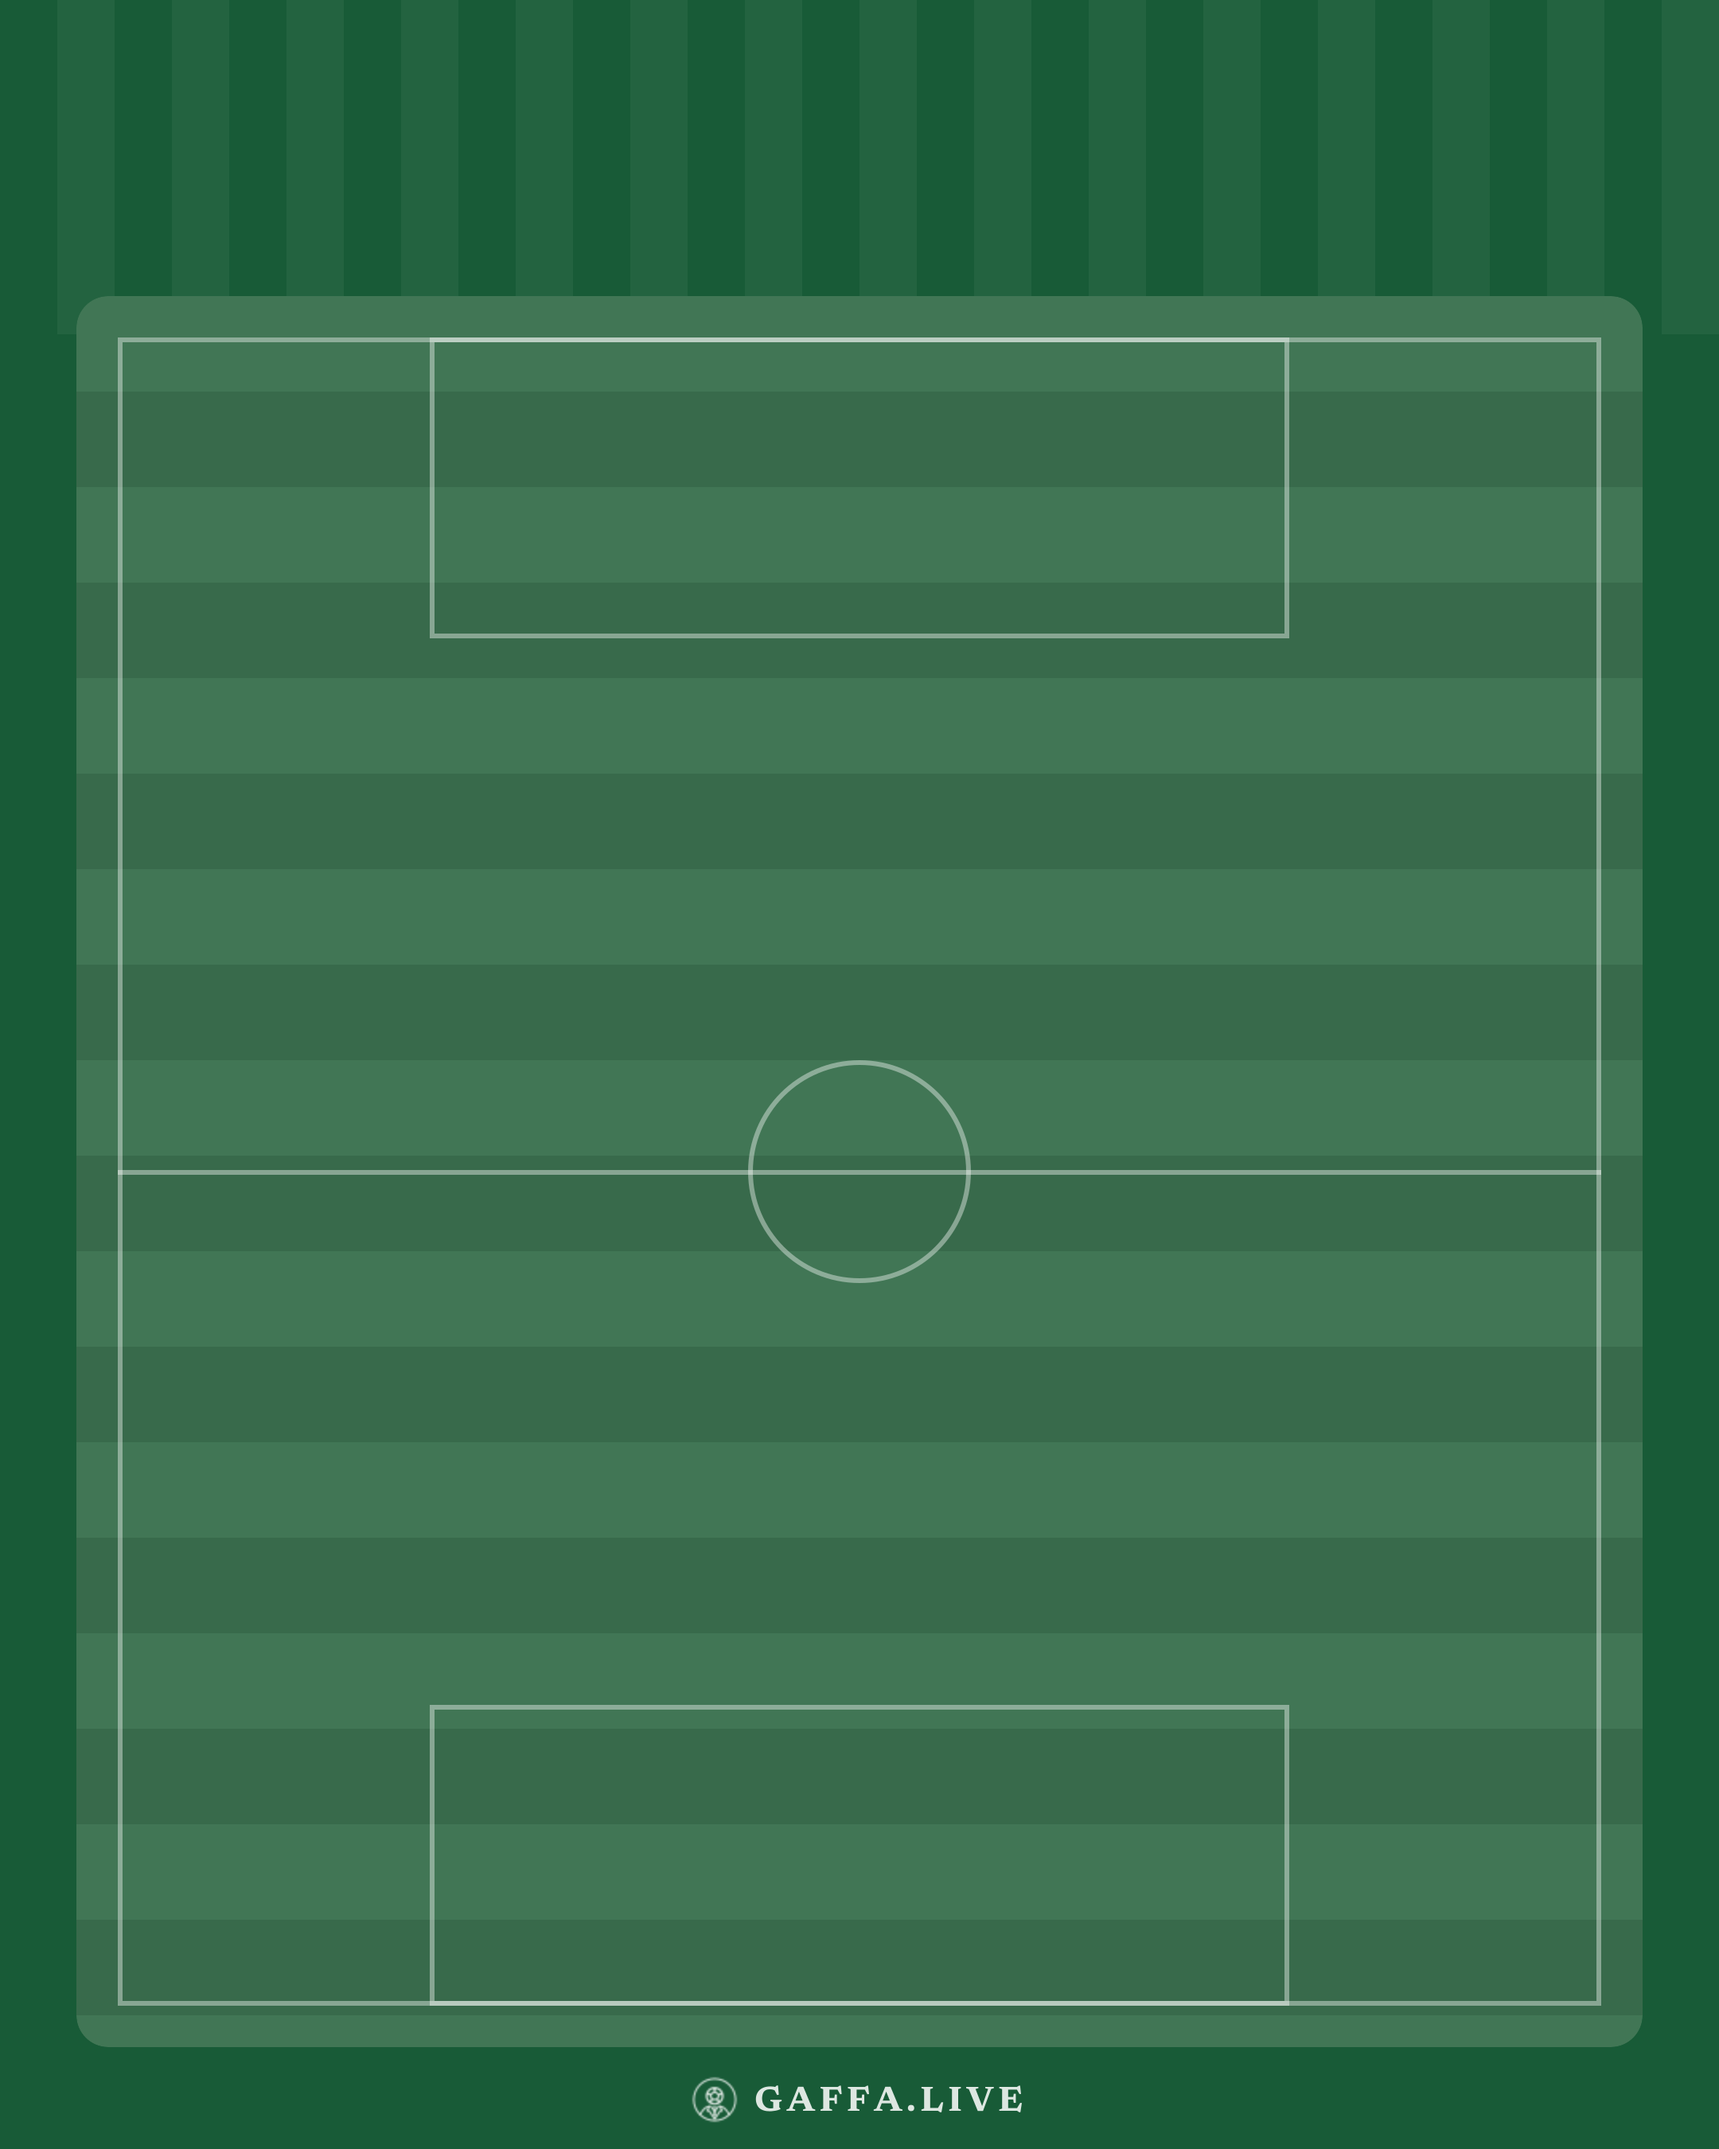
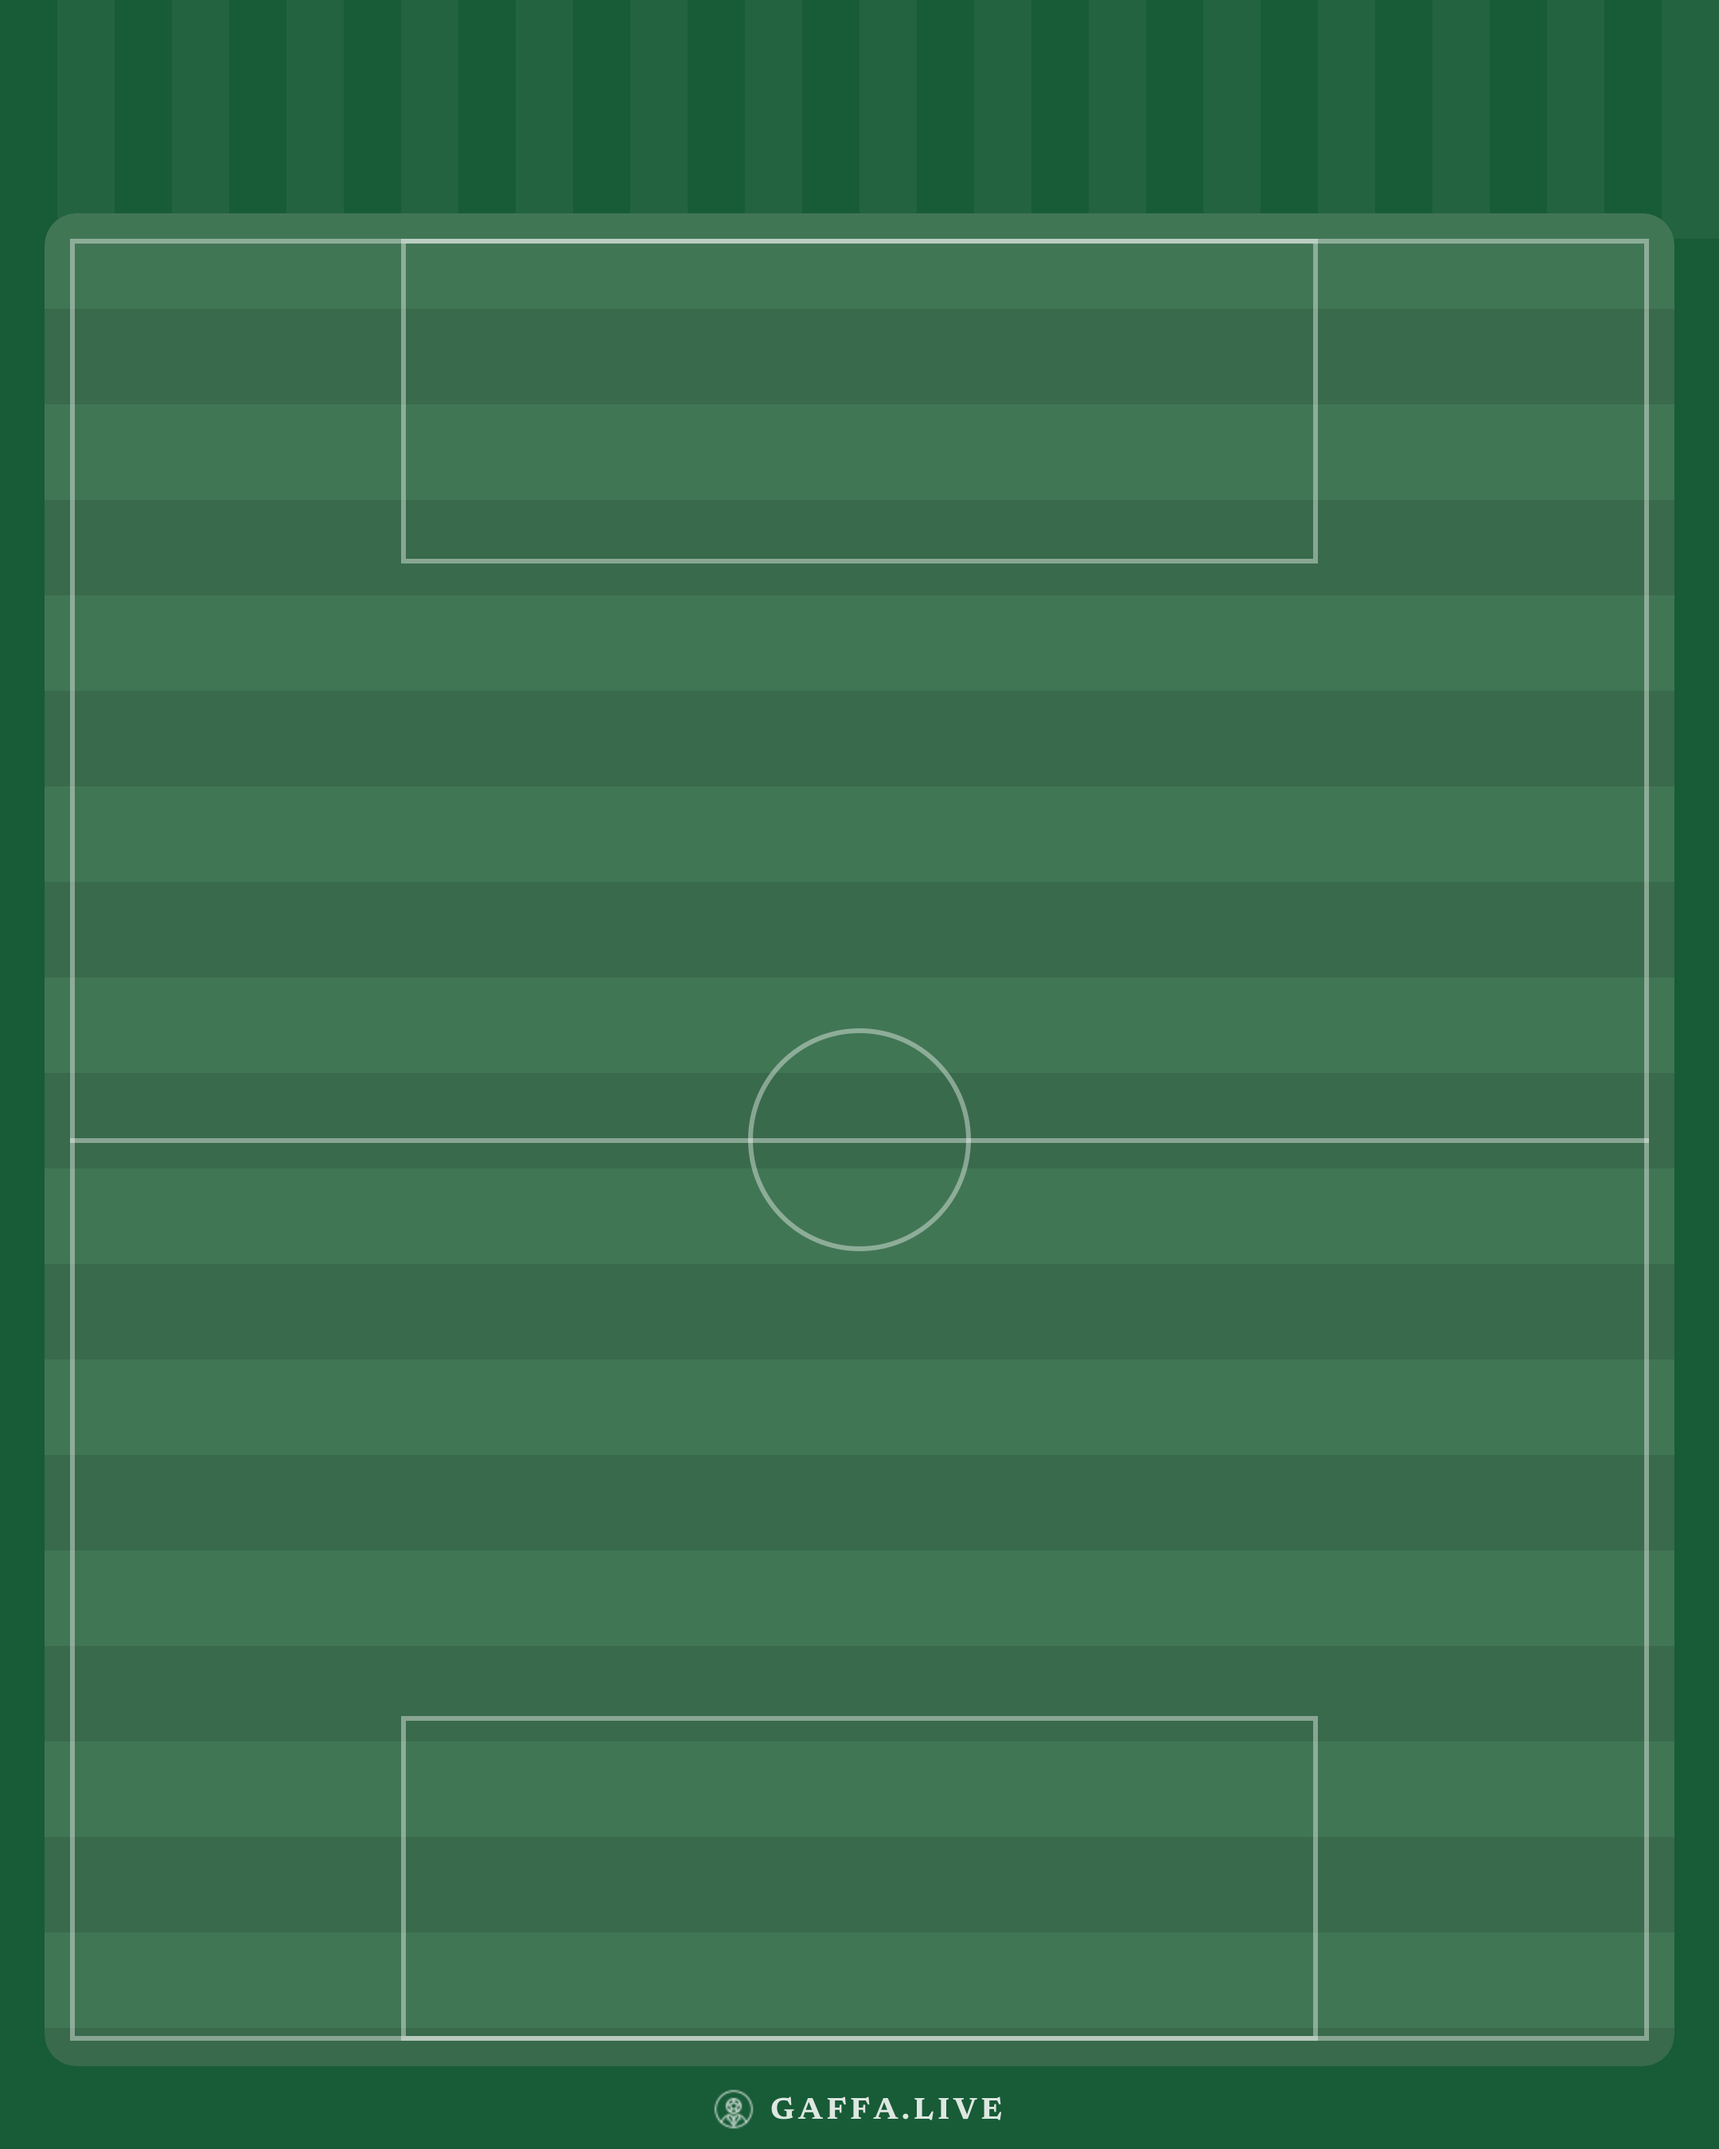
feat(lineup-builder): tighter 4:5 share card, players about 20% bigger
iMessage draws a link preview at a fixed bubble width, so within 4:5 the
lineup only reads bigger in the bubble if the players take more of the
card. The header is slimmer, the pitch's margins and row padding are
smaller, and rows of four or more spread to equal cells so their chips
never meet. Every node still shares one zoom per card, set by the
widest row and the number of rows, so a back five scales the whole card
down slightly rather than overlapping. Base image regenerated.

Changed region(s): [[0.0, 0.0933, 0.9926, 0.9956], [0.4653, 0.4667, 0.5273, 0.4978], [0.2481, 0.2489, 0.2792, 0.3111]]

diff --git a/src/lib/lineups/lineupCard.tsx b/src/lib/lineups/lineupCard.tsx
@@ -434,34 +434,36 @@ export function cardNodes(xi: SharedXI): { S: number; nodes: CardNode[] } {
   for (const z of ZONE_ORDER) zoned.set(z, []);
   for (const slot of xi.slots) zoned.get(getZone(slot.pos, xi.formation))?.push(slot);
   const rows = ZONE_ORDER.filter((z) => (zoned.get(z)?.length ?? 0) > 0);
-  const top = fY + 20;
-  const rowH = (fH - 40) / rows.length;
+  const top = fY + 8;
+  const rowH = (fH - 16) / rows.length;
   // The card's zoom on the site's board: as large as the busiest row allows across
   // (a node is 114px wide on the site) and the rows allow down.
   const widest = Math.max(...rows.map((z) => zoned.get(z)?.length ?? 0));
-  const S = Math.min(2, (fW / widest - 14) / 114, (rowH * 0.84) / nodeBox(1).total);
+  const S = Math.min(2, (fW / widest - 14) / 114, (rowH * 0.92) / nodeBox(1).total);
   const nodes = rows.flatMap((zone, r) => {
     const inRow = zoned.get(zone) ?? [];
     return inRow.map((slot, c) => ({
       pos: slot.pos,
       player: slot.player,
-      x: fX + (fW / (inRow.length + 1)) * (c + 1),
+      // Rows of four or more split the width into equal cells so their chips never
+      // meet; shorter rows sit at thirds, as the site's pitch spaces them.
+      x: fX + fW * (inRow.length >= 4 ? (c + 0.5) / inRow.length : (c + 1) / (inRow.length + 1)),
       y: top + rowH * r + rowH / 2,
     }));
   });
   return { S, nodes };
 }
 
-const PAD = 48;
-export const SHELF_H = 210;
+const PAD = 28;
+export const SHELF_H = 150;
 
 /** The pitch's box, and the field markings' box inset within it. */
 function pitchFrame() {
   const px = PAD;
-  const py = SHELF_H - 24;
+  const py = SHELF_H - 16;
   const pw = CARD_W - PAD * 2;
-  const ph = CARD_H - py - 64;
-  const inset = 26;
+  const ph = CARD_H - py - 52;
+  const inset = 16;
   return { px, py, pw, ph, fX: px + inset, fY: py + inset, fW: pw - inset * 2, fH: ph - inset * 2 };
 }
 
@@ -541,10 +543,10 @@ export function LineupCard({
   const pad = PAD;
   const shelfH = SHELF_H;
   const crest = xi.club ? assets.crests.get(xi.club.slug) : undefined;
-  const crestBox = 96;
+  const crestBox = 76;
   const titleRoom = CARD_W - pad * 2 - (crest ? crestBox + 24 : 0);
   // Newsreader Bold runs up to about 0.56em a character; shrink a long title to fit.
-  const titleFont = Math.max(40, Math.min(64, titleRoom / (Math.max(xi.title.length, 1) * 0.56)));
+  const titleFont = Math.max(40, Math.min(54, titleRoom / (Math.max(xi.title.length, 1) * 0.56)));
   const subtitle = [
     xi.formation,
     xi.club ? xi.club.name.toUpperCase() : null,
@@ -594,7 +596,7 @@ export function LineupCard({
           style={{
             position: 'absolute',
             left: u(pad),
-            top: u(46),
+            top: u(30),
             width: u(titleRoom),
             display: 'flex',
             fontFamily: 'Newsreader',
@@ -615,10 +617,10 @@ export function LineupCard({
           style={{
             position: 'absolute',
             left: u(pad),
-            top: u(134),
+            top: u(98),
             width: u(titleRoom),
             display: 'flex',
-            fontSize: u(24),
+            fontSize: u(21),
             color: 'rgba(255,255,255,0.7)',
             whiteSpace: 'pre',
             overflow: 'hidden',
@@ -632,7 +634,7 @@ export function LineupCard({
           style={{
             position: 'absolute',
             right: u(pad),
-            top: u(52),
+            top: u(30),
             width: u(crestBox),
             height: u(crestBox),
             display: 'flex',
@@ -758,7 +760,7 @@ export function LineupCard({
           style={{
             position: 'absolute',
             left: 0,
-            bottom: u(16),
+            bottom: u(12),
             width: u(CARD_W),
             display: 'flex',
             justifyContent: 'center',
@@ -767,14 +769,14 @@ export function LineupCard({
           }}
         >
           <div style={{ display: 'flex', marginRight: u(10), marginTop: u(-3) }}>
-            <GaffaMark size={u(30)} color="#FFFFFF" />
+            <GaffaMark size={u(26)} color="#FFFFFF" />
           </div>
           <div
             style={{
               display: 'flex',
               fontFamily: 'Wordmark',
-              fontSize: u(22),
-              letterSpacing: u(22 * 0.12),
+              fontSize: u(19),
+              letterSpacing: u(19 * 0.12),
               color: '#FFFFFF',
             }}
           >
